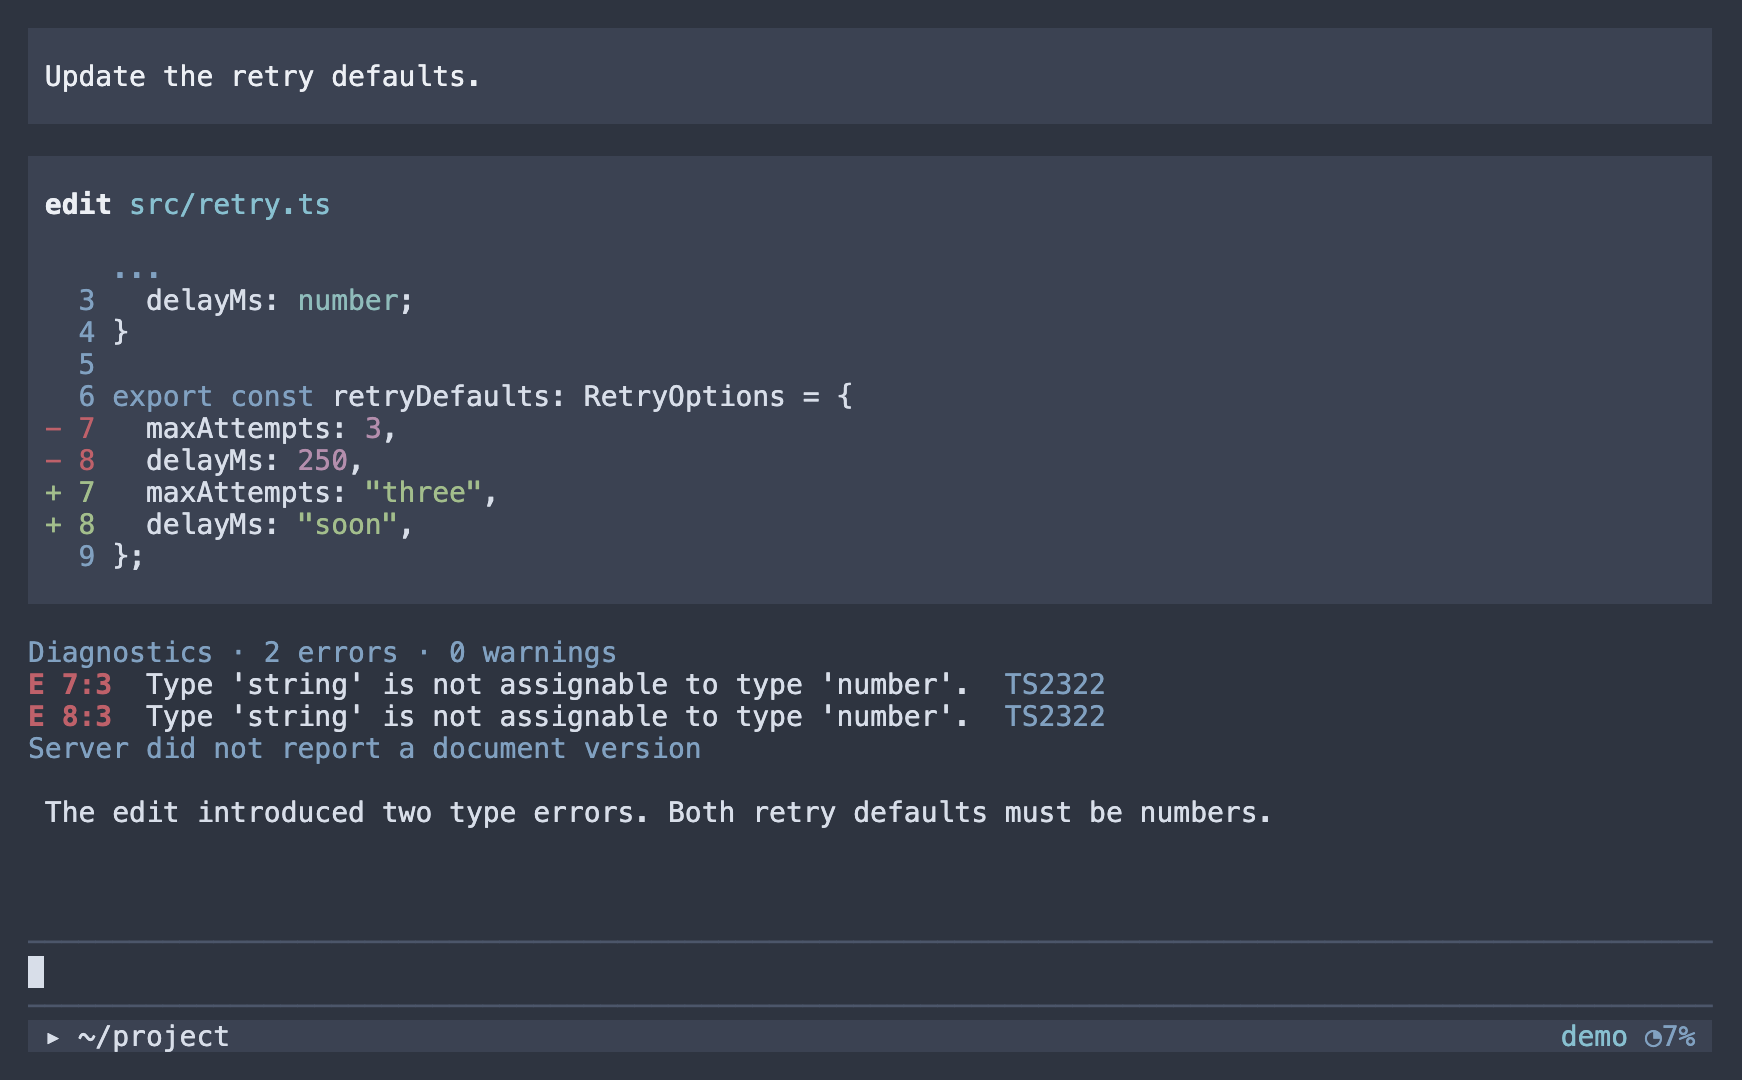
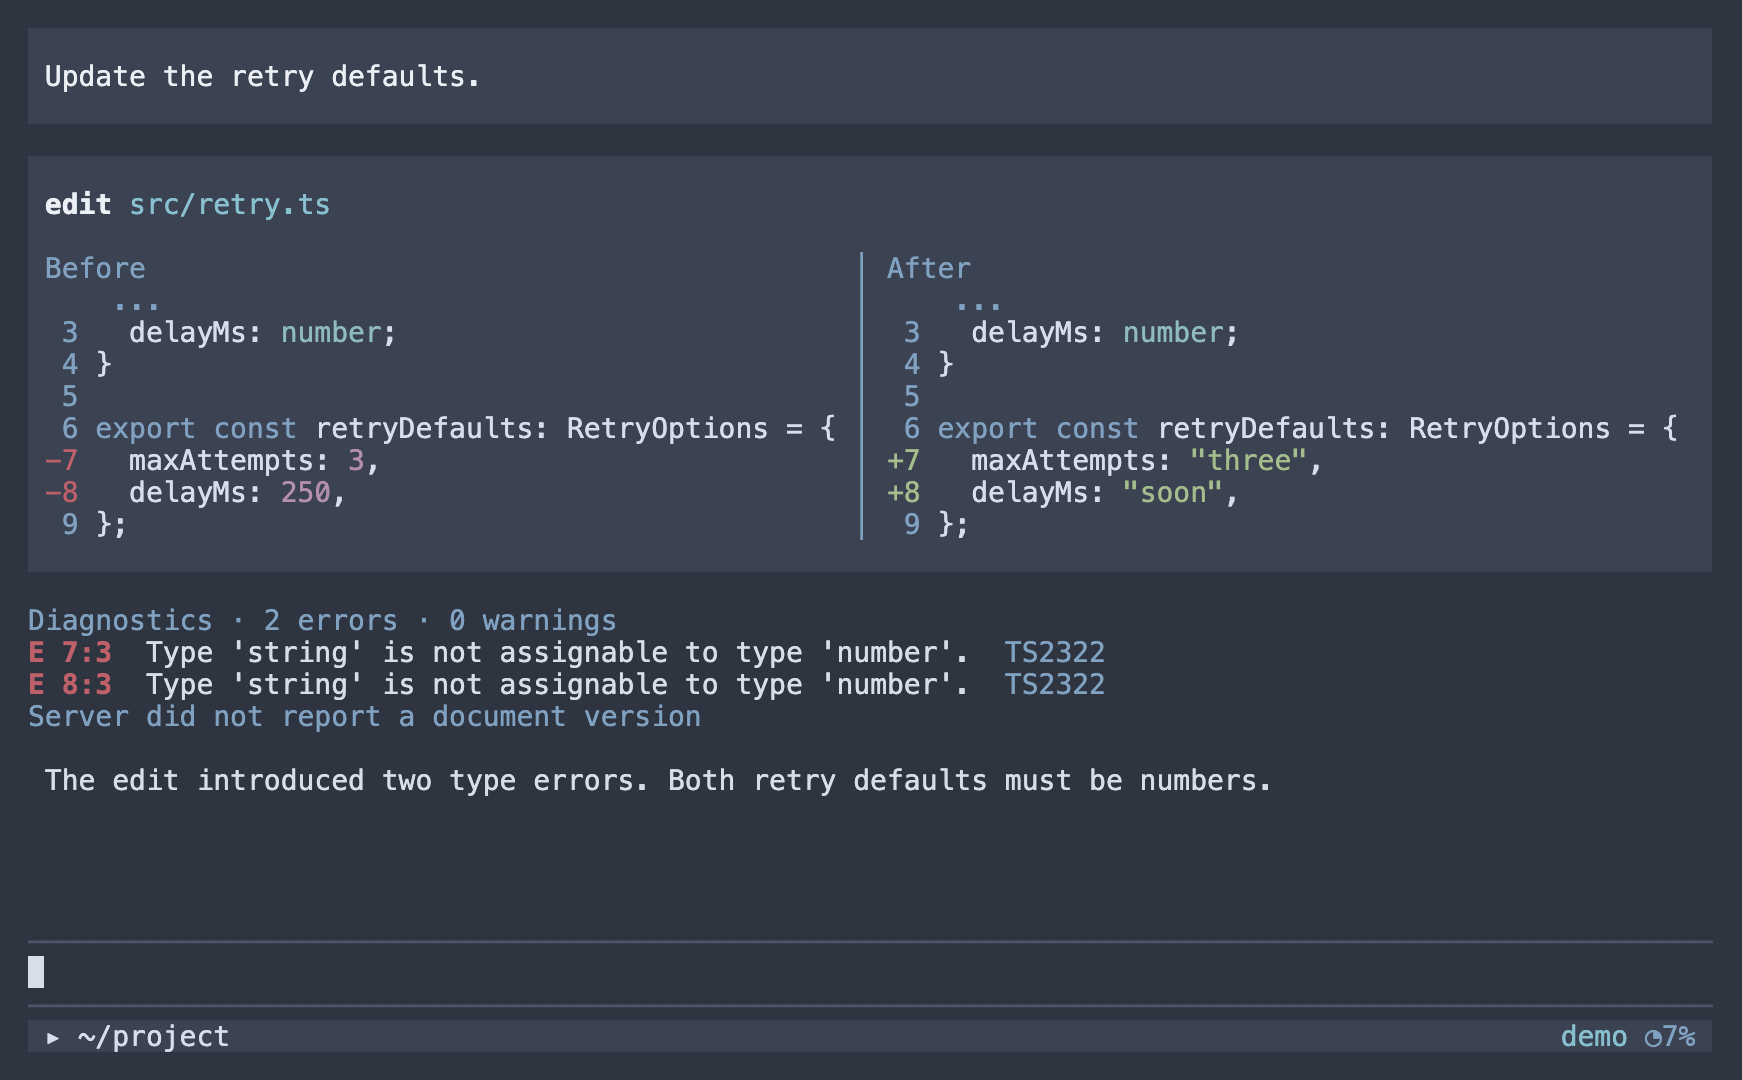
feat(pi): adapt edit diffs to available terminal width

diff --git a/pi/daily-driver/code-intelligence/diff.ts b/pi/daily-driver/code-intelligence/diff.ts
@@ -16,22 +16,39 @@ import {
 const clean = (text: string) =>
   text.replaceAll("\t", "   ").replace(/\p{Cc}/gu, " ");
 type Highlighter = (text: string, language: string) => string[];
+type DiffTheme = Pick<Theme, "fg" | "bg" | "bold">;
+interface DiffLine {
+  raw: string;
+  prefix: string | undefined;
+  number: string;
+  beforeNumber: string;
+  afterNumber: string;
+  code: string;
+  before: string | undefined;
+  after: string | undefined;
+}
+const minimumSourceWidth = 40;
+
 export function syntaxDiffRows(
   diff: string,
   path: string,
-  theme: Theme,
+  theme: DiffTheme,
   width: number,
   cwd: string,
   highlight: Highlighter = highlightCode,
 ): string[] {
   if (width < 3) return [];
-  const lines = diff.split("\n").map((line) => {
+  const lines: DiffLine[] = diff.split("\n").map((line) => {
     const match = /^([+\- ])(\s*\d+) (.*)$/u.exec(line);
     return {
       raw: line,
       prefix: match?.[1],
-      number: match?.[2],
+      number: match?.[2]?.trim() ?? "",
+      beforeNumber: "",
+      afterNumber: "",
       code: clean(match?.[3] ?? ""),
+      before: undefined,
+      after: undefined,
     };
   });
   const language = getLanguageFromPath(path);
@@ -47,22 +64,111 @@ export function syntaxDiffRows(
     updated = paint(true);
   let before = 0,
     after = 0;
-  const body = lines.flatMap((line) => {
-    const previous = line.prefix === "+" ? undefined : old[before++];
-    const current = line.prefix === "-" ? undefined : updated[after++];
-    if (line.prefix === undefined)
-      return [theme.fg("toolDiffContext", clean(line.raw))];
-    const tone =
-      line.prefix === "+"
-        ? "toolDiffAdded"
-        : line.prefix === "-"
-          ? "toolDiffRemoved"
-          : "toolDiffContext";
-    return [
-      `${theme.fg(tone, `${line.prefix}${line.number ?? ""} `)}${line.prefix === "-" ? (previous ?? line.code) : (current ?? line.code)}`,
-    ];
-  });
+  let delta = 0;
+  for (const line of lines) {
+    line.beforeNumber = line.prefix === "+" ? "" : line.number;
+    line.afterNumber =
+      line.prefix === " "
+        ? String(Number(line.number) + delta)
+        : line.prefix === "+"
+          ? line.number
+          : "";
+    if (line.prefix === "+") delta++;
+    else if (line.prefix === "-") delta--;
+    line.before = line.prefix === "+" ? undefined : old[before++];
+    line.after = line.prefix === "-" ? undefined : updated[after++];
+  }
   const inner = Math.max(1, width - 2);
+  const digits = lines.reduce(
+    (digits, line) =>
+      Math.max(digits, line.beforeNumber.length, line.afterNumber.length),
+    1,
+  );
+  const leftWidth = Math.floor((inner - 3) / 2);
+  const rightWidth = inner - 3 - leftWidth;
+  const gutter = digits + 2;
+  const split = leftWidth - gutter >= minimumSourceWidth;
+  const pad = (text: string, columns: number) =>
+    text + " ".repeat(Math.max(0, columns - visibleWidth(text)));
+  const tone = (line: DiffLine) =>
+    line.prefix === "+"
+      ? "toolDiffAdded"
+      : line.prefix === "-"
+        ? "toolDiffRemoved"
+        : "toolDiffContext";
+  const cell = (
+    line: DiffLine | undefined,
+    side: "before" | "after",
+    columns: number,
+  ): string[] => {
+    if (line === undefined) return [" ".repeat(columns)];
+    if (line.prefix === undefined)
+      return wrapTextWithAnsi(
+        theme.fg("toolDiffContext", clean(line.raw)),
+        columns,
+      ).map((row) => pad(row, columns));
+    const code = side === "before" ? line.before : line.after;
+    return wrapTextWithAnsi(code ?? line.code, columns - gutter).map(
+      (row, index) => {
+        const number = side === "before" ? line.beforeNumber : line.afterNumber;
+        const label =
+          index === 0
+            ? `${line.prefix ?? " "}${number.padStart(digits)} `
+            : " ".repeat(gutter);
+        return pad(theme.fg(tone(line), label) + row, columns);
+      },
+    );
+  };
+  const paired = (
+    left: DiffLine | undefined,
+    right: DiffLine | undefined,
+  ): string[] => {
+    const oldRows = cell(left, "before", leftWidth),
+      newRows = cell(right, "after", rightWidth);
+    return Array.from(
+      { length: Math.max(oldRows.length, newRows.length) },
+      (_unused, row) =>
+        (oldRows[row] ?? " ".repeat(leftWidth)) +
+        theme.fg("dim", " │ ") +
+        (newRows[row] ?? " ".repeat(rightWidth)),
+    );
+  };
+  const body: string[] = [];
+  if (split) {
+    body.push(
+      pad(theme.fg("muted", "Before"), leftWidth) +
+        theme.fg("dim", " │ ") +
+        theme.fg("muted", "After"),
+    );
+    let index = 0;
+    while (index < lines.length) {
+      const line = lines[index];
+      if (line?.prefix === "-" || line?.prefix === "+") {
+        const removed: DiffLine[] = [],
+          added: DiffLine[] = [];
+        while (lines[index]?.prefix === "-") {
+          const value = lines[index++];
+          if (value !== undefined) removed.push(value);
+        }
+        while (lines[index]?.prefix === "+") {
+          const value = lines[index++];
+          if (value !== undefined) added.push(value);
+        }
+        for (let row = 0; row < Math.max(removed.length, added.length); row++)
+          body.push(...paired(removed[row], added[row]));
+      } else {
+        body.push(...paired(line, line));
+        index++;
+      }
+    }
+  } else {
+    for (const line of lines)
+      body.push(
+        line.prefix === undefined
+          ? theme.fg("toolDiffContext", clean(line.raw))
+          : `${theme.fg(tone(line), `${line.prefix}${line.number.padStart(digits)} `)}${line.prefix === "-" ? (line.before ?? line.code) : (line.after ?? line.code)}`,
+      );
+  }
   const rawPath = path.startsWith("~/")
     ? resolve(homedir(), path.slice(2))
     : resolve(cwd, path);

diff --git a/pi/daily-driver/tests/diagnostics.test.ts b/pi/daily-driver/tests/diagnostics.test.ts
@@ -1,12 +1,14 @@
+import { syntaxDiffRows } from "../code-intelligence/diff.ts";
 import assert from "node:assert/strict";
 import { test } from "node:test";
-import type { ThemeColor } from "@earendil-works/pi-coding-agent";
+import type { ThemeBg, ThemeColor } from "@earendil-works/pi-coding-agent";
 import { visibleWidth } from "@earendil-works/pi-tui";
 import {
   diagnosticRows,
   type DiagnosticSnapshot,
 } from "../code-intelligence/diagnostics.ts";
 const plain = {
+  bg: (_tone: ThemeBg, value: string) => value,
   fg: (_tone: ThemeColor, value: string) => value,
   bold: (value: string) => value,
 };
@@ -72,4 +74,52 @@ await test("inline diagnostics distinguish pending and reported results, wrap, a
   ).join("\n");
   assert.match(empty, /no errors or warnings reported/u);
   assert.doesNotMatch(empty, /project clean/u);
+});
+
+await test("edit diffs switch between aligned split and unified layouts without losing changes", () => {
+  const diff = [
+    ' 6 const label = "漢字😀";',
+    "-7 const retries = 3;",
+    "-8 const removed = true;",
+    '+7 const retries = "three";',
+    " 9 finish();",
+    "+10 added();",
+  ].join("\n");
+  const highlight = (text: string) => text.split("\n");
+  for (const width of [60, 92, 93, 100, 140]) {
+    const rows = syntaxDiffRows(
+      diff,
+      "retry.ts",
+      plain,
+      width,
+      "/project",
+      highlight,
+    );
+    const text = rows.join("\n");
+    assert.ok(
+      rows.every((row) => visibleWidth(row) <= width),
+      `overflow at ${String(width)}`,
+    );
+    assert.match(text, /removed = true/u);
+    assert.match(text, /added\(\)/u);
+    assert.match(text, /漢字😀/u);
+    assert.match(text, /retries = 3/u);
+    assert.match(text, /retries = "three"/u);
+    assert.equal(text.includes(" │ "), width >= 93);
+    if (width >= 93) {
+      assert.match(text, /Before.*After/u);
+      assert.match(text, /9 finish\(\).*│.*8 finish\(\)/u);
+    }
+  }
+  const long = `-1 const value = "${"漢字😀".repeat(25)}";\n+1 const value = "short";`;
+  const wrapped = syntaxDiffRows(
+    long,
+    "retry.ts",
+    plain,
+    100,
+    "/project",
+    highlight,
+  );
+  assert.ok(wrapped.every((row) => visibleWidth(row) <= 100));
+  assert.match(wrapped.join("\n"), /short/u);
 });

diff --git a/pi/daily-driver/acceptance/lsp.ts b/pi/daily-driver/acceptance/lsp.ts
@@ -164,7 +164,7 @@ try {
   const written = lastOutcome;
   const native = session.getToolDefinition("edit");
   const rendered = session.extensionRunner.resolveToolRenderers(
-    "write",
+    "edit",
     () => native,
   );
   assert.ok(rendered?.renderResult !== undefined);
@@ -203,6 +203,11 @@ try {
   assert.doesNotMatch(component.render(100).join("\n"), /"lsp"|"diagnostics"/u);
   assert.match(component.render(60).join("\n"), /Diagnostics/u);
   assert.match(callComponent.render(100).join("\n"), /answer.*number/u);
+  assert.match(callComponent.render(100).join("\n"), /Before.*After/u);
+  assert.doesNotMatch(
+    callComponent.render(60).join("\n"),
+    /Before.*After| │ /u,
+  );
   await eventually(
     () => call(lspTool, { action: "diagnostics", path: "b.ts" }),
     /2322/u,

diff --git a/pi/daily-driver/README.md b/pi/daily-driver/README.md
@@ -47,7 +47,7 @@ LSP support is enabled by default and starts installed servers on demand only af
 
 `driver_lsp` provides definitions, references, implementations, hover/types, document/workspace symbols, and diagnostics when the selected server supports them. File paths select the project; tool positions and returned locations use one-based lines and UTF-16 columns. Text search remains available for discovery, configuration, strings, and unsupported languages. Protocol initialization does not guarantee that project indexing has finished.
 
-Successful Pi edits and writes show readable error/warning diagnostics directly below their result in the conversation, with severity, location, message, and diagnostic code. Edit diffs retain their line numbers and colored addition/removal gutters while syntax-highlighting the old and new source separately. The collapsed diagnostics view shows two issues; expanding the native tool output shows the remaining bounded results. Diagnostics that arrive later update the same edit result without taking focus or starting another assistant turn; no diagnostics command is needed. Late results are retained in hidden native session messages so the model and restored chat history receive them. Missing servers do not fail the edit. Pending results and diagnostics without a document version remain labeled; neither establishes a clean file. Shell edits are refreshed on subsequent LSP queries. Servers and document state belong to the active Pi runtime and project and are released on reload, shutdown, or a `/cd` session replacement. Read-only delegated snapshots do not load this extension.
+Successful Pi edits and writes show readable error/warning diagnostics directly below their result in the conversation, with severity, location, message, and diagnostic code. Edit diffs retain line numbers, addition/removal gutters, and separate syntax highlighting for old and new source. They use aligned Before/After columns when both sides have at least 40 source columns, then fall back to unified output in narrower panes. Each side wraps independently without shifting subsequent paired rows. The collapsed diagnostics view shows two issues; expanding the native tool output shows the remaining bounded results. Diagnostics that arrive later update the same edit result without taking focus or starting another assistant turn; no diagnostics command is needed. Late results are retained in hidden native session messages so the model and restored chat history receive them. Missing servers do not fail the edit. Pending results and diagnostics without a document version remain labeled; neither establishes a clean file. Shell edits are refreshed on subsequent LSP queries. Servers and document state belong to the active Pi runtime and project and are released on reload, shutdown, or a `/cd` session replacement. Read-only delegated snapshots do not load this extension.
 
 `driver_lsp_rename` first returns unified diffs and a five-minute preview token, then applies that token after rechecking the original contents. Renames use Pi's normal write tools and permission hooks; managed Edd leads also require an approved implementation plan and current task revision. File resource operations, symbolic links, `.git` paths, edits outside the active directory, overlapping edits, more than 100 files, and diffs exceeding the preview limit are rejected. Application across files is not atomic: a blocked or failed write reports the applied paths and recovery token. Original/proposed file contents are retained in the native `pi-driver:rename-recovery` session entry before writing; these survive restart only when the Pi session is persisted. Inspect them before recovering through normal editing tools.
 
